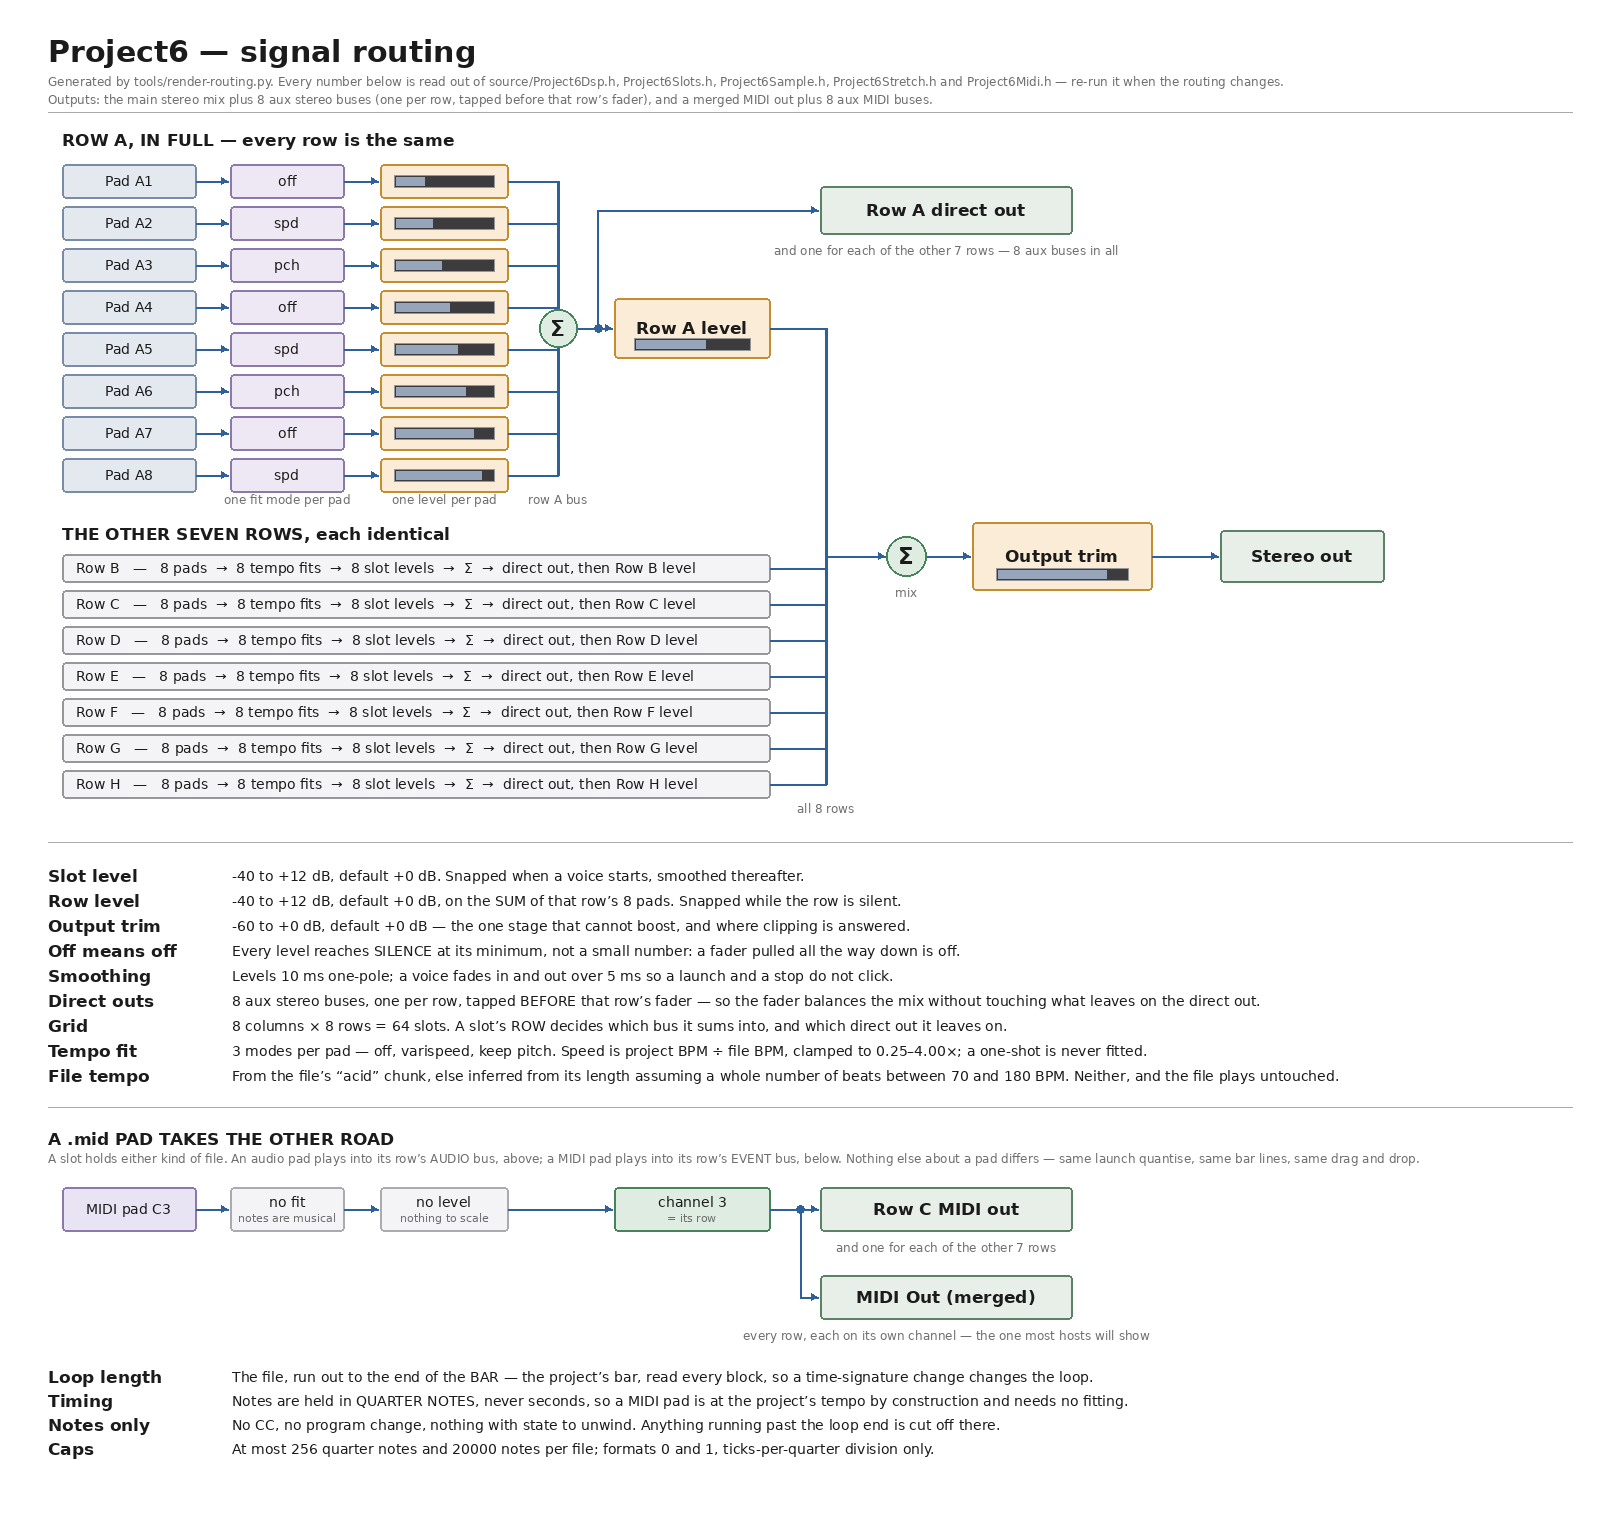
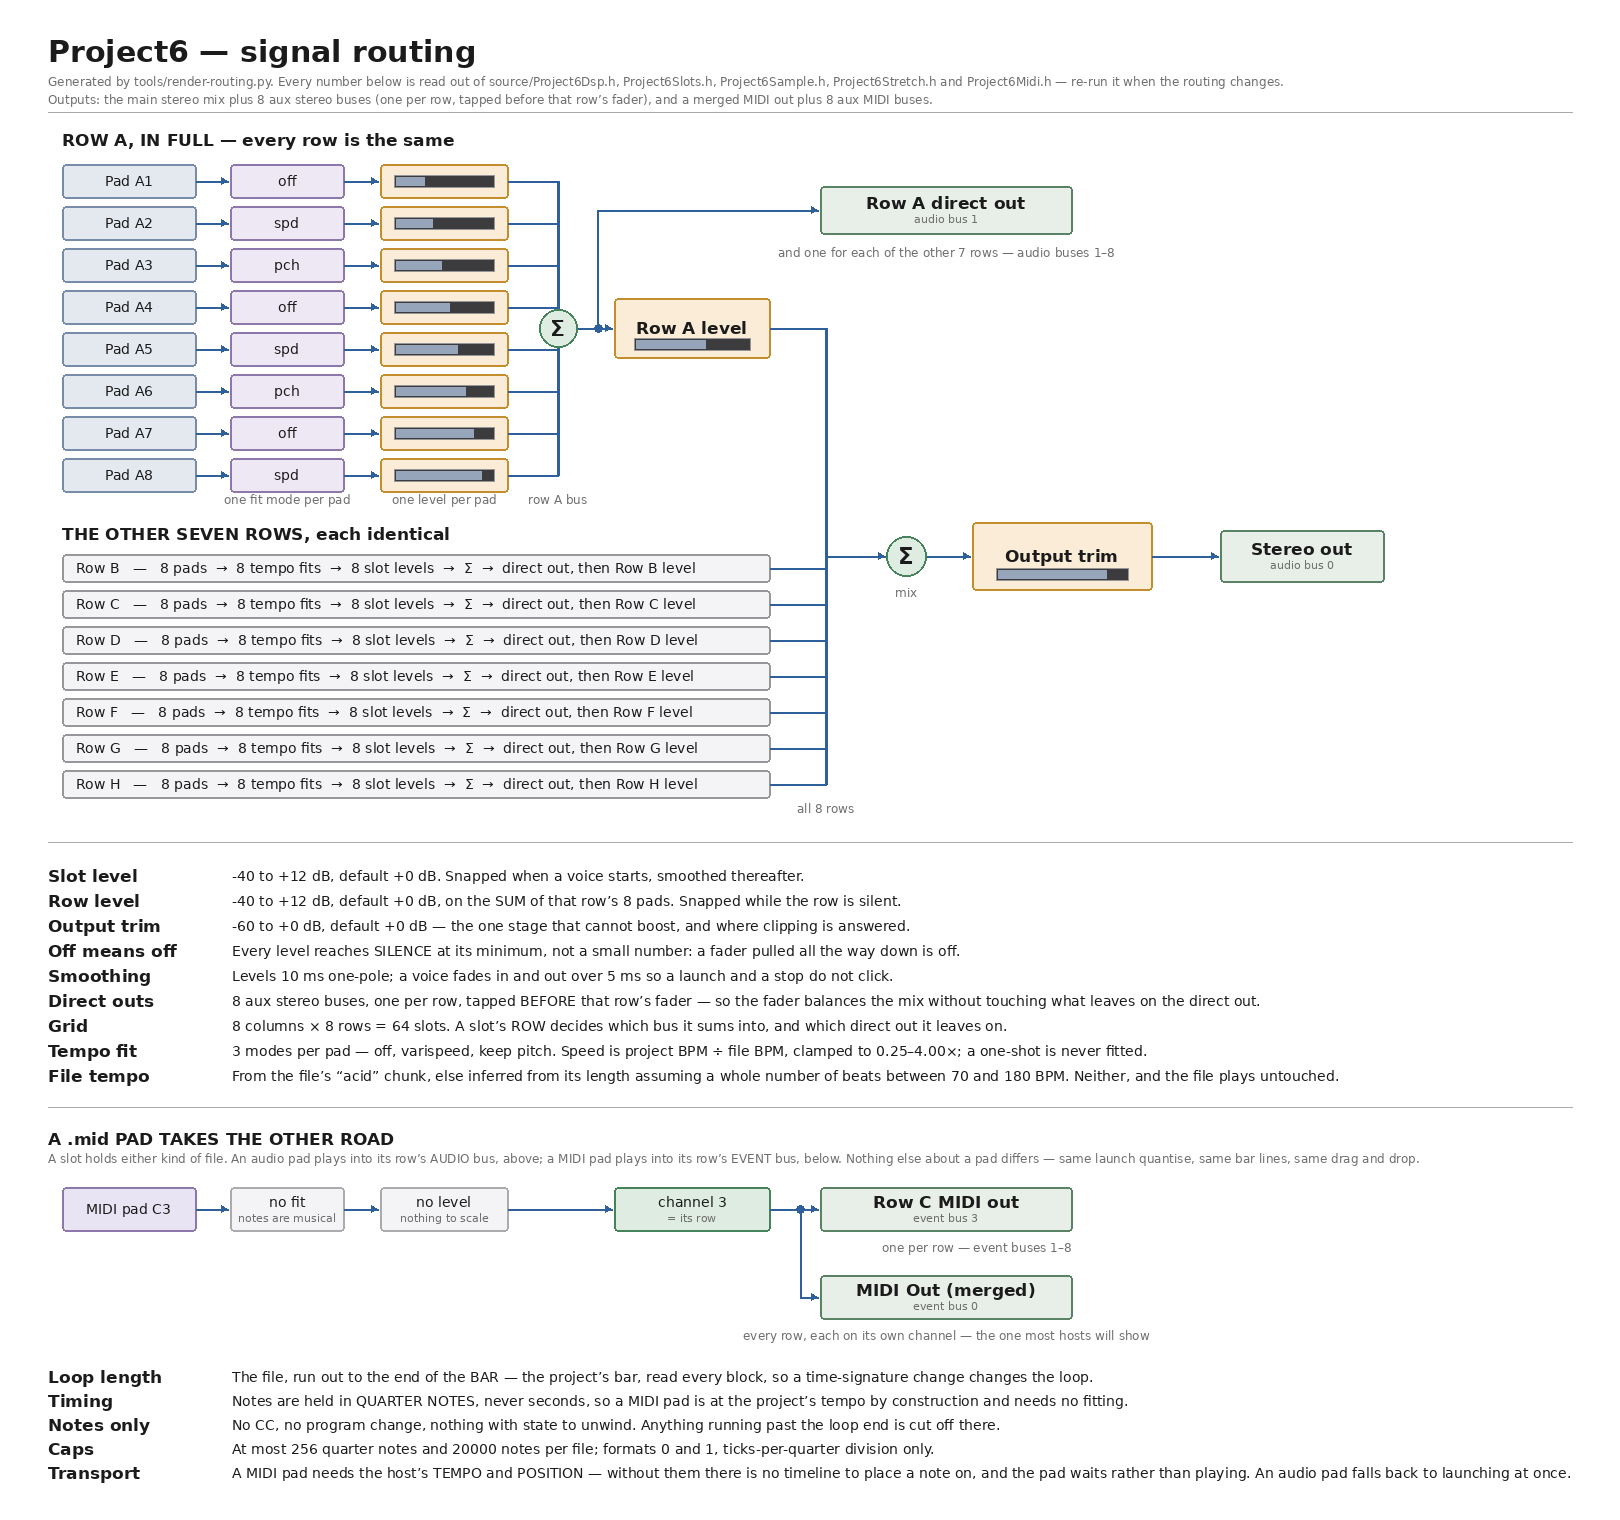
Project6: put the bus numbers on the routing diagram
The diagram was already CURRENT - it regenerated byte for byte identical,
which is what generating it from the headers is for. What it was missing
was the two things somebody actually patching this in a host needs.

BUS INDICES on every output: audio bus 0 is the stereo mix and 1-8 are the
rows; event bus 0 is the merged MIDI out and 1-8 are the rows. The diagram
said which signal went where and left the reader to work out which entry
in the host's routing menu that was.

AND THE ONE THING THAT MAKES A MIDI PAD SILENT: it needs the host's tempo
AND position, and without them it waits rather than playing, where an
audio pad falls back to launching at once. Somebody wondering why a .mid
pad is doing nothing looks at this picture, and it did not say.

The per-row MIDI caption is right-aligned and shortened because centred it
ran back underneath the line that drops to the merged bus.

Claude-Session: https://claude.ai/code/session_017M5oPBGrZ3hvhKd1FW8GGH

diff --git a/tools/render-routing.py b/tools/render-routing.py
@@ -254,9 +254,10 @@ def main():
                  fill=SIGNAL, outline=SIGNAL)
 
     box(draw, (direct_x0, direct_y - 24, direct_x1, direct_y + 24),
-        (232, 238, 232), (90, 130, 100), 'Row A direct out', f_head)
-    text(draw, ((direct_x0 + direct_x1) / 2, direct_y + 40),
-         'and one for each of the other %d rows — %d aux buses in all'
+        (232, 238, 232), (90, 130, 100), 'Row A direct out', f_head,
+        sub='audio bus 1', subfnt=f_tiny)
+    text(draw, ((direct_x0 + direct_x1) / 2, direct_y + 42),
+         'and one for each of the other %d rows — audio buses 1–%d'
          % (rows - 1, rows), f_small, fill=MUTED, anchor='mm')
 
     # --- the row level ----------------------------------------------------
@@ -310,7 +311,8 @@ def main():
 
     arrow(draw, trim_x1, mix_mid, out_x0 - 2, mix_mid)
     box(draw, (out_x0, mix_mid - 26, out_x1, mix_mid + 26),
-        (232, 238, 232), (90, 130, 100), 'Stereo out', f_head)
+        (232, 238, 232), (90, 130, 100), 'Stereo out', f_head,
+        sub='audio bus 0', subfnt=f_tiny)
 
     # --- the notes --------------------------------------------------------
     notes_y = strip_top + (rows - 1) * (strip_h + strip_gap) + 60
@@ -382,10 +384,11 @@ def main():
     arrow(draw, rowlvl_x1, my + mh / 2, direct_x0 - 2, my + mh / 2)
 
     box(draw, (direct_x0, my, direct_x1, my + mh), (232, 238, 232), (90, 130, 100),
-        'Row C MIDI out', f_head)
-    text(draw, ((direct_x0 + direct_x1) / 2, my + mh + 16),
-         'and one for each of the other %d rows' % (rows - 1), f_small,
-         fill=MUTED, anchor='mm')
+        'Row C MIDI out', f_head, sub='event bus 3', subfnt=f_tiny)
+    # RIGHT-ALIGNED to the box: centred, this caption runs back under the
+    # line that drops to the merged bus and the two collide.
+    text(draw, (direct_x1, my + mh + 16),
+         'one per row — event buses 1–%d' % rows, f_small, fill=MUTED, anchor='rm')
 
     # ...and the merged bus, which is the one most hosts will show.
     merged_y = my + mh + 44
@@ -396,7 +399,8 @@ def main():
     arrow(draw, rowlvl_x1 + 30, merged_y + 22, direct_x0 - 2, merged_y + 22)
 
     box(draw, (direct_x0, merged_y, direct_x1, merged_y + mh),
-        (232, 238, 232), (90, 130, 100), 'MIDI Out (merged)', f_head)
+        (232, 238, 232), (90, 130, 100), 'MIDI Out (merged)', f_head,
+        sub='event bus 0', subfnt=f_tiny)
     text(draw, ((direct_x0 + direct_x1) / 2, merged_y + mh + 16),
          'every row, each on its own channel — the one most hosts will show',
          f_small, fill=MUTED, anchor='mm')
@@ -410,6 +414,9 @@ def main():
                         'running past the loop end is cut off there.'),
         ('Caps',        'At most %.0f quarter notes and %d notes per file; formats 0 and 1, '
                         'ticks-per-quarter division only.' % (max_quarters, max_notes)),
+        ('Transport',   'A MIDI pad needs the host’s TEMPO and POSITION — without them there '
+                        'is no timeline to place a note on, and the pad waits rather than '
+                        'playing. An audio pad falls back to launching at once.'),
     ]
     for i, (name, body) in enumerate(midi_notes):
         y = merged_y + mh + 48 + i * 24
